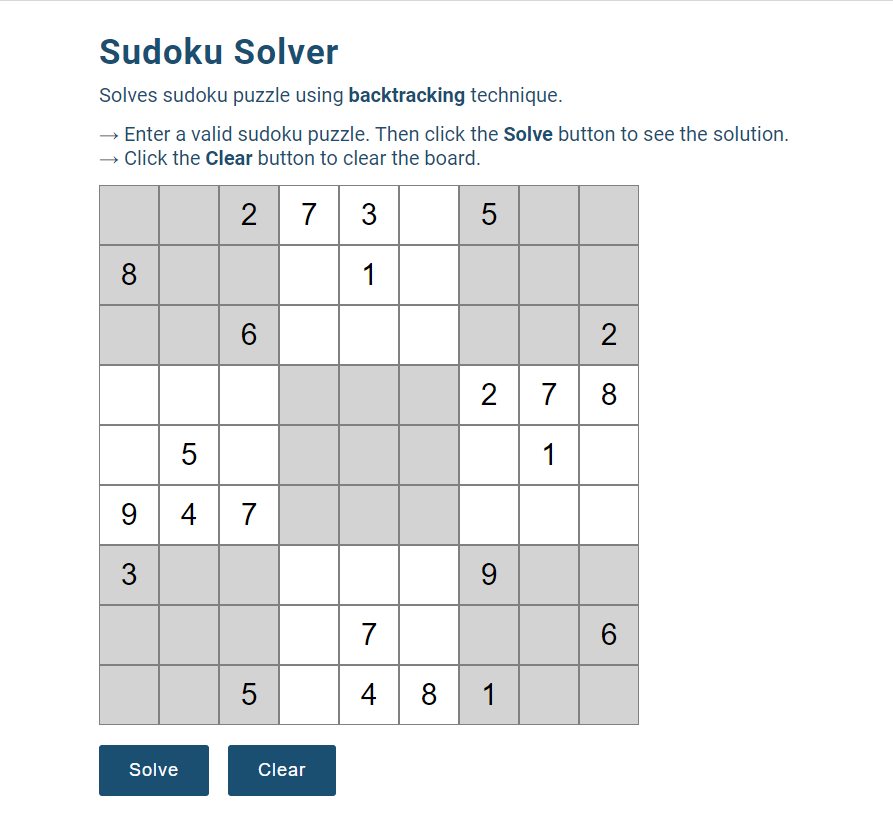
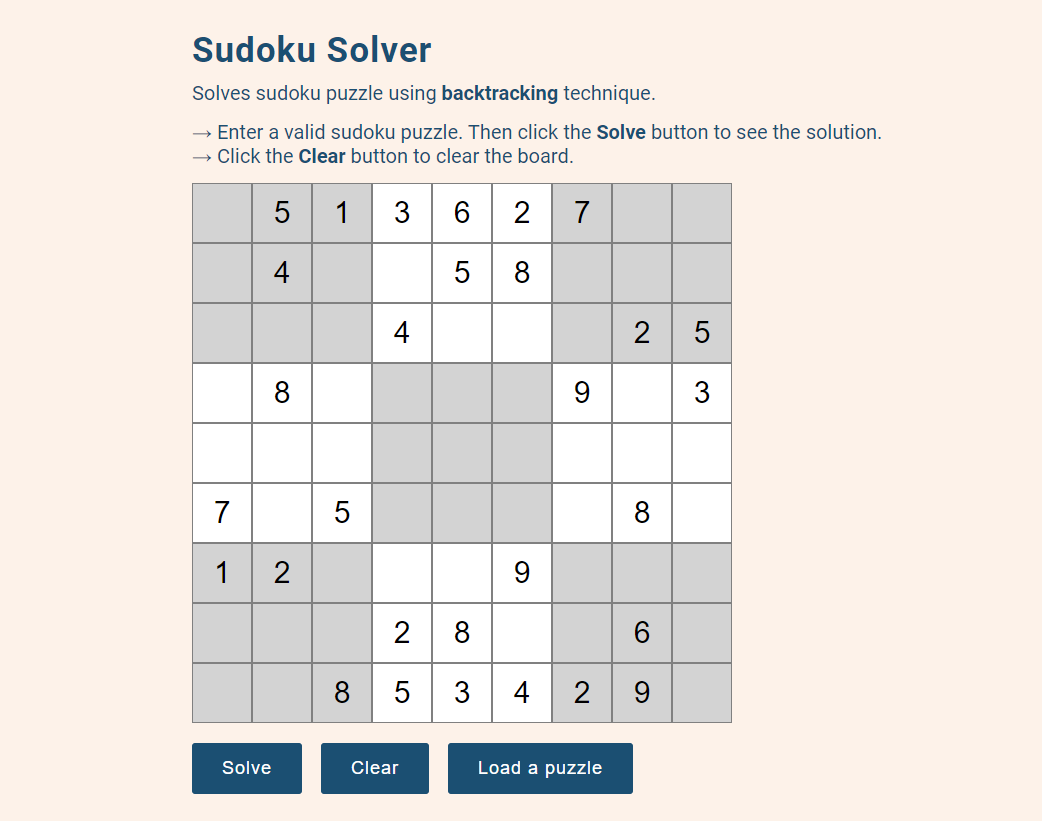
code refactor and updated ss

Changed region(s): [[0.0907, 0.0305, 0.8768, 0.9744]]

diff --git a/scripts/app.js b/scripts/app.js
@@ -16,7 +16,7 @@ loadRandomBoard = () => {
 
     for(let i=0; i<savedBoard.length; i++) {
         if(savedBoard[i] == 0) {
-            inputs[i].value = ""
+             inputs[i].value = ""
         } else {
             inputs[i].value = savedBoard[i]
         }
@@ -40,21 +40,15 @@ insertValues = () => {
 
 populateValues = () => {
     const inputs = document.querySelectorAll('input')
-    inputs.forEach((input, i) => {
-        input.value = board[i]
-    })
+    inputs.forEach((input, i) => input.value = board[i])
 }
 
-solveButton.addEventListener('click', () => {
+main = () => {
     insertValues()
     solve()
     populateValues()
-})
+}
 
-clearButton.addEventListener('click', () => {
-    window.location.reload(true)
-})
-
-loadButton.addEventListener('click', () => {
-    loadRandomBoard()
-})
+solveButton.addEventListener('click', () => main())
+clearButton.addEventListener('click', () => window.location.reload(true))
+loadButton.addEventListener('click', () => loadRandomBoard())

diff --git a/scripts/solver.js b/scripts/solver.js
@@ -1,23 +1,19 @@
-const i2rc = (index) => {
-    return { row: Math.floor(index/9), col: index % 9 }
+const i2rc = (index) => { 
+    return {row: Math.floor(index/9), col: index % 9} 
 }
-
-const rc2i = (row, col) => {
-    return row * 9 + col
-}
+const rc2i = (row, col) => (row * 9 + col)
 
 const acceptable = (board, index, value) => {
     let { row, col } = i2rc(index)
-
-    for (let r = 0; r < 9; ++r)
+    for (let r = 0; r < 9; ++r) {
         if (board[rc2i(r, col)] == value) return false
-
-    for (let c = 0; c < 9; ++c)
+    }
+    for (let c = 0; c < 9; ++c) {
         if (board[rc2i(row, c)] == value) return false
+    }
 
     let r1 = Math.floor(row / 3) * 3
     let c1 = Math.floor(col / 3) * 3
-
     for (let r = r1; r < r1 + 3; ++r) {
         for (let c = c1; c < c1 + 3; ++c) {
             if (board[rc2i(r, c)] == value) return false

diff --git a/index.html b/index.html
@@ -16,6 +16,7 @@
         <p class="description">Solves sudoku puzzle using <span class="decorator-elem">backtracking</span> technique.</p>
         <p class="instruction-1">&#8594 Enter a valid sudoku puzzle. Then click the <span class="decorator-elem">Solve</span> button to see the solution.</p>
         <p class="instruction-2">&#8594 Click the <span class="decorator-elem">Clear</span> button to clear the board.</p>
+        <p class="instruction-3">&#8594 Hit <spanc class="decorator-elem">Load a puzzle</spanc> to load a pre-existing puzzle.</p>
         <div id="puzzle" class="puzzle"></div>
         <button type="button" id="solve-button" class="solve-button">Solve</button>
         <button type="button" id="clear-button" class="clear-button">Clear</button>

diff --git a/styles/style.css b/styles/style.css
@@ -19,12 +19,13 @@ html {
     margin: 30px 0px 10px 0px;
 }
 
-.instruction-1, .instruction-2, .description {
-    font-size: 20px;
+.instruction-1, .instruction-2, .instruction-3, .description {
+    font-size: 18px;
     color: #1B4F72;
+    letter-spacing: 0.5px;
 }
 
-.instruction-2 {
+.instruction-3 {
     margin: 0px 0px 15px 0px;
 }
 

diff --git a/README.md b/README.md
@@ -3,10 +3,10 @@
 [![Netlify Status](https://api.netlify.com/api/v1/badges/cb92e0d2-4b59-437a-b03b-18ef36a4f9ee/deploy-status)](https://app.netlify.com/sites/sudokoo/deploys)
 
 ## Input a valid sudoku puzzle:
-<img src="files/images/ss00.png" width="600" height="500">
+<img src="files/images/ss00.png" width="650" height="500">
 
 ## See the solution:
-<img src="files/images/ss01.png" width="600" height="500">
+<img src="files/images/ss01.png" width="650" height="500">
 
 ## Things to improve:
 * Invalid input causes crash
